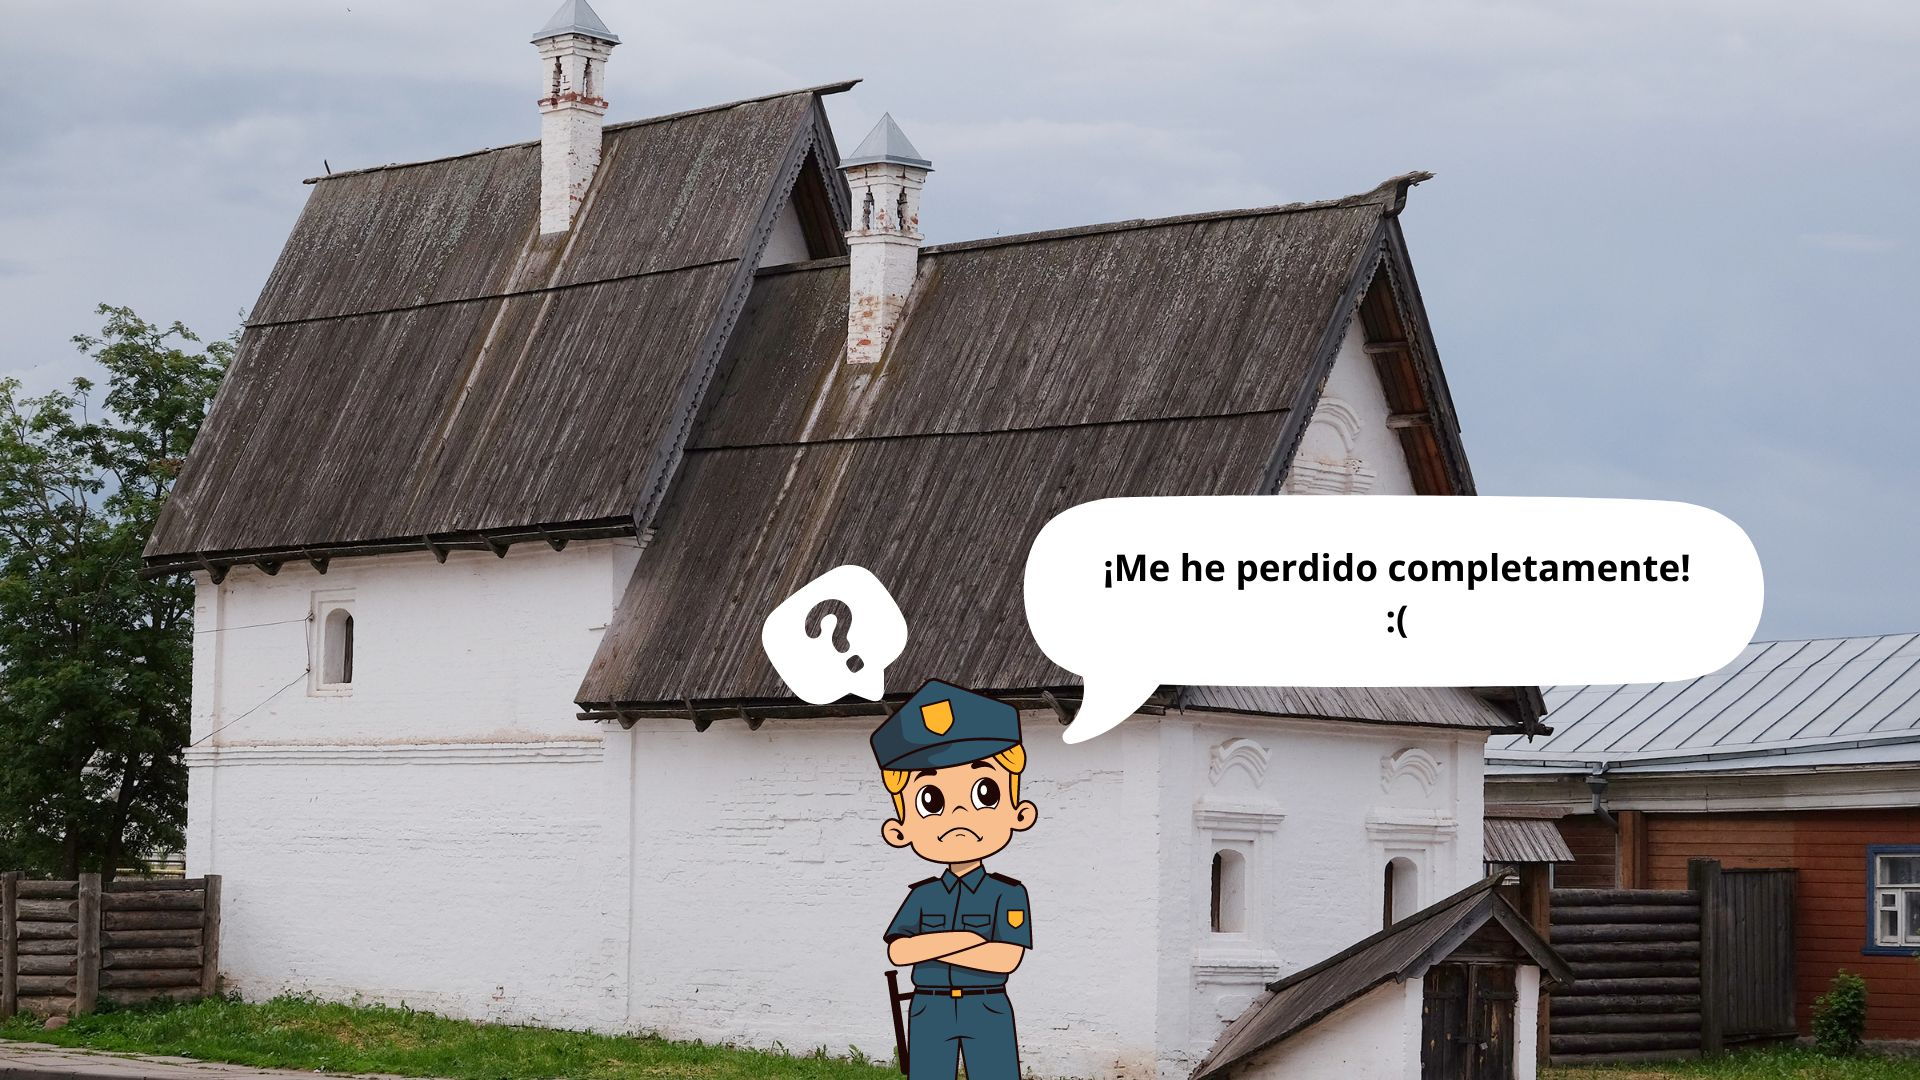
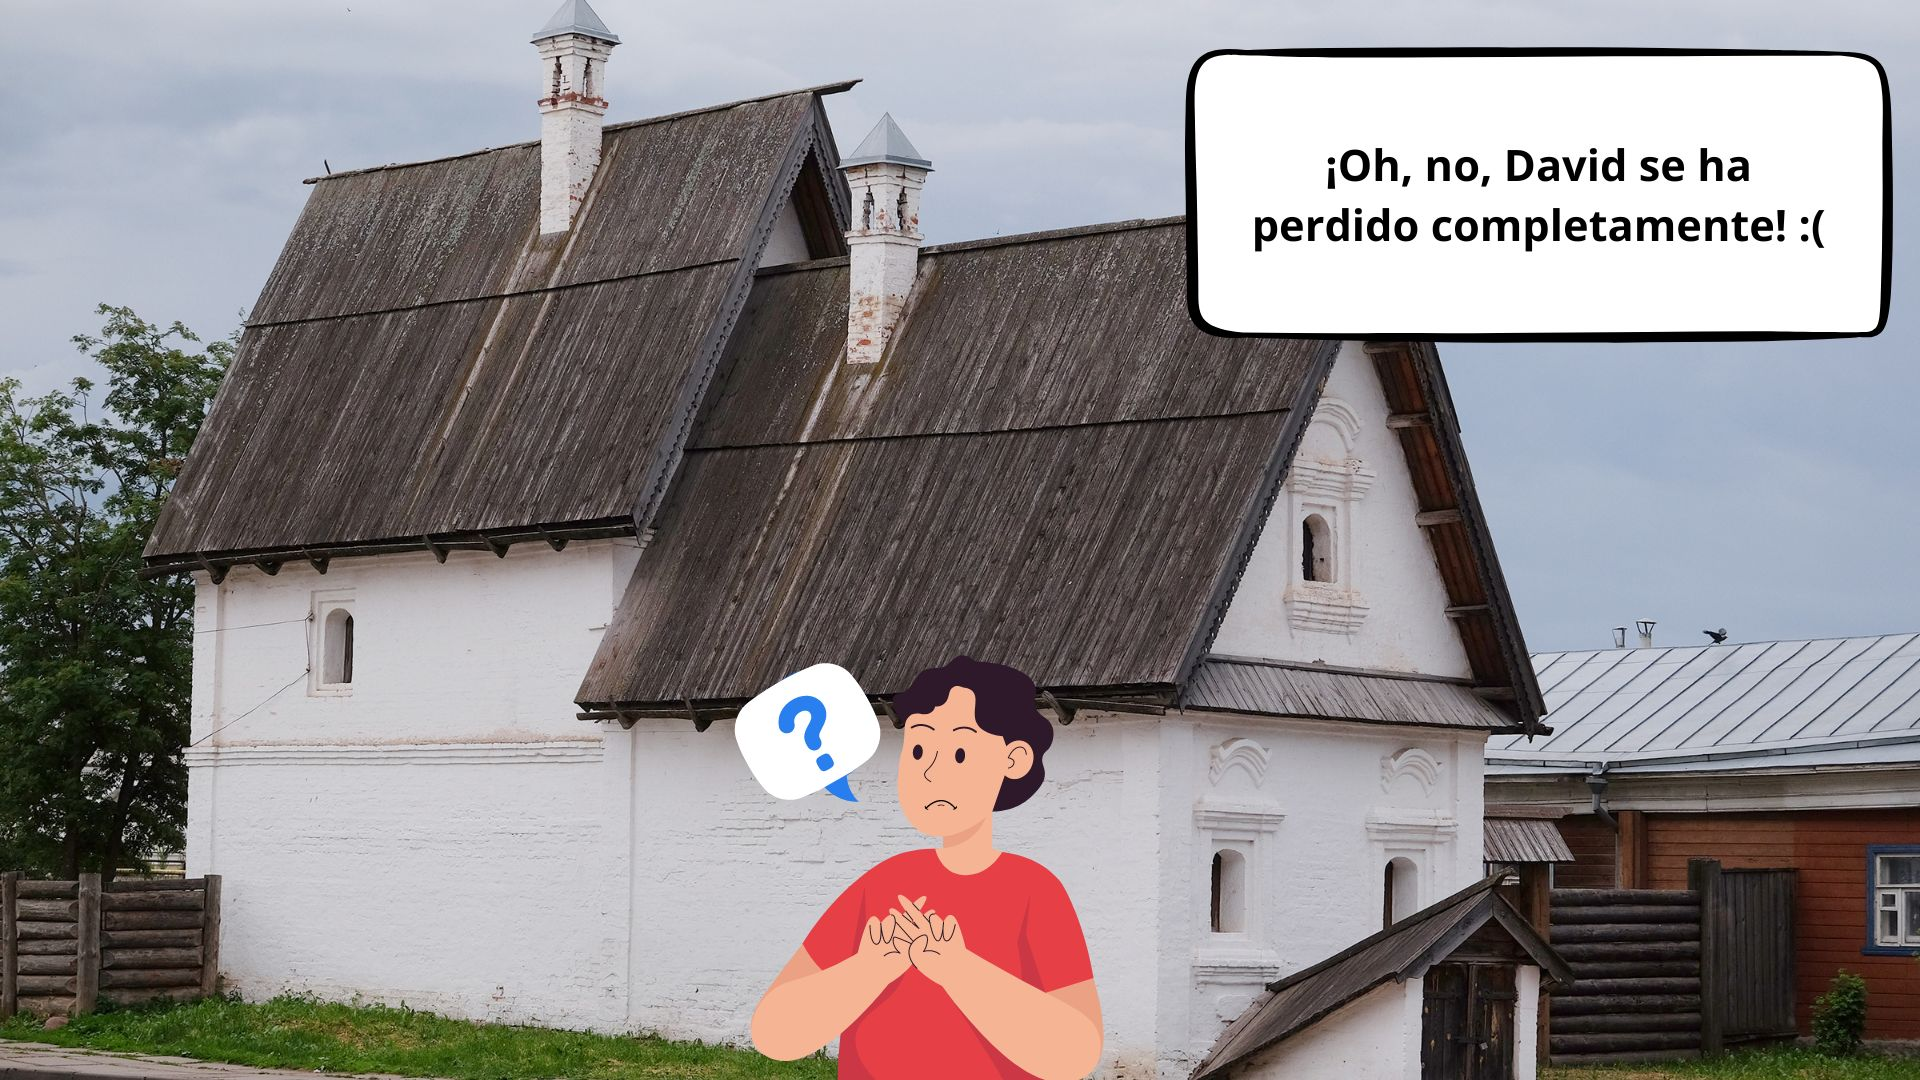
final

Changed region(s): [[0.375, 0.4583, 0.9375, 1.0], [0.5938, 0.0306, 1.0, 0.3361]]

diff --git a/index.html b/index.html
@@ -88,8 +88,8 @@
     <div id="gameCanvas" width="1000" height="600">
       <div id="questionTitle"></div>
       <div class="speech-bubble">
-        Tengo que encontrar el camino al comando policial, ayúdame a seleccionar
-        la ruta correcta.
+        Él es David y ha quedado en reunirse con sus amigos ¿Podrías ayudarlo a
+        encontrar el camino seguro usando las señales visuales?
       </div>
       <canvas id="characterCanvas" width="1000" height="600"></canvas>
       <div id="optionLeft" class="option" onclick="checkDecision(0)"></div>
@@ -127,7 +127,7 @@
       playerImage.src = "pj.png"; // Reemplaza con la ruta a tu sprite
       const policeStationImageSrc = "bgWin.jpg"; // Reemplaza con la ruta a tu imagen del comando policial
 
-      let player = { x: 620, y: 360, width: 320, height: 320, lives: 2 };
+      let player = { x: 660, y: 360, width: 250, height: 250, lives: 2 };
 
       let crossroads = [
         {
